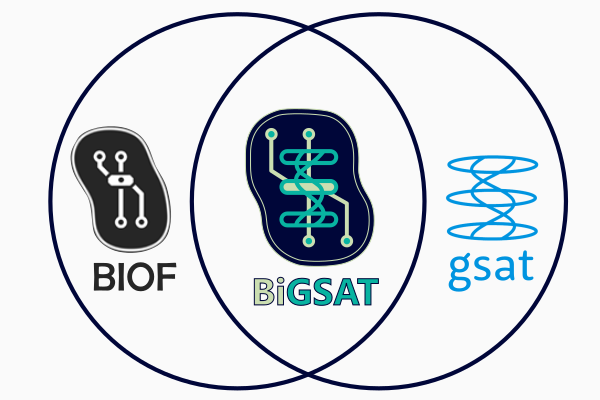
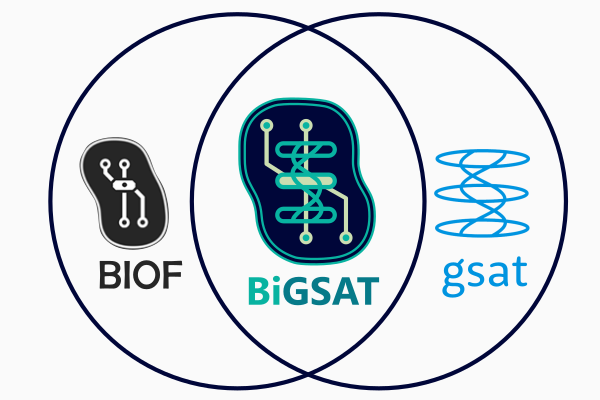
update images, css, some formatting

diff --git a/conference/index.html b/conference/index.html
@@ -56,18 +56,18 @@
     <h1>
       BiGSAT 2026 Keynote
     </h1>
-    
-    <h2>
+
+    <img src="assets/speakers/gillis.png" style="width:40%">
+
+    <h3>
       Dr. Jesse Gillis, PhD<br>
       Associate Professor of Integrative Physiology<br>
       University of Toronto
-    </h2>
-  
-    <img src="assets/slides/keynote.png" style="width:70%">
-  
-    <h3>
-      Dr. Gillis is an expert in integrated neurophysiology at the Donnelly Centre in the University of Toronto. His <a href="https://thedonnellycentre.utoronto.ca/faculty/jesse-gillis" target="_blank">lab</a> focuses on characterizing the flow of information from cellular gene networks to whole organism phenotypes across species using functional genomics data, focused primarily on the brain.
     </h3>
+  
+    <p>
+      Dr. Gillis is an expert in integrated neurophysiology at the Donnelly Centre in the University of Toronto. His <a href="https://thedonnellycentre.utoronto.ca/faculty/jesse-gillis" target="_blank">lab</a> focuses on characterizing the flow of information from cellular gene networks to whole organism phenotypes across species using functional genomics data, focused primarily on the brain.
+    </p>
   </div>
 
   <div id="Faculty Talks" class="tabcontent">
@@ -75,6 +75,8 @@
       Faculty Talks
     </h1>
   
+    <img src="assets/speakers/speakers_temp.png" style="width:100%">
+
     <h2>Coming soon!</h2>
   </div>
 

diff --git a/about/bigsat/index.html b/about/bigsat/index.html
@@ -45,21 +45,21 @@
     What is BiGSAT?
   </h1>
   
-  <h2>
+  <h4>
     First launched in 2011, BiGSAT began as B.I.G., a student-organized annual event that brought together hundreds of trainees from the University of British Columbia's Graduate Programs in Bioinformatics (BIOF), Interdisciplinary Oncology (IOP), and Genome Science and Technology (GSAT). 
-  </h2>
+  </h4>
 
   <td class="flyer">
     <img src="assets/bigsatVenn.png">
   </td>
   
-  <h3>
+  <h4>
     Alongside academic and industry professionals, participants presented their research through seminars and poster sessions. Over the years, the event has showcased a wide range of topics, spanning model systems, post-transcriptional and post-translational regulation, and their applications in clinical settings.
-  </h3>
+  </h4>
 
-  <p>
+  <h4>
     Starting 2026, B.I.G. has evolved into BiGSAT - focusing on research presented exclusively from the BIOF and GSAT programs. BiGSAT 2026 will have a reduced focus on cancer and an increased emphasis on computational methods and general genetics, including non-human applications. Details about the previous B.I.G. events can be found <a href="https://bigsat-oc.github.io/bigsite-archive/" target="_blank">here</a>.
-  </p>
+  </h4>
 
 
 </body>

diff --git a/index.html b/index.html
@@ -91,6 +91,10 @@
       <img src="assets/slides/savethedate.png" style="width:100%">
     </div>
 
+    <div class="mySlides fade">
+      <img src="assets/slides/speakers_announcement.png" style="width:100%">
+    </div>
+
   </div>
   
   <br>
@@ -124,13 +128,13 @@
   }
   </script>
 
-  <h2>
+  <h4>
     Students from the <a href="https://www.bioinformatics.ubc.ca/" target="_blank">Bioinformatics (BIOF)</a> and <a href="https://www.gsat.ubc.ca/" target="_blank">Genome Science and Technology (GSAT)</a> graduate programs at the University of British Columbia are pleased to present their 16th Annual Research Day on Thursday, April 16, 2026, at the Life Science Insitute. Over 150 graduate students from both programs will come together to present their research and attend seminars led by invited academic and industry professionals.
-  </h2>
+  </h4>
 
-  <h1>
+  <h2>
     Our Sponsors
-  </h1>
+  </h2>
 
   <div class="sponsors">
     <div class="sponsor-row">

diff --git a/assets/main.css b/assets/main.css
@@ -44,11 +44,11 @@ a.current{color: #52739e;}
 a.current:hover{color: #e82945;}
 a:hover{color: #b2132e;}
 a:active{color: #e82945;}
-h1,h2,h3,h4{clear:left; color: #067a89; margin:1.5em 0em 1em 0em; font-family:'Lexend Deca',sans-serif;line-height: 1.8em;}
-h1{font-size:2.67em;}
+h1,h2,h3,h4{clear:left; color: #08b3a1; margin:1.5em 0em 1em 0em; font-family:'Lexend Deca',sans-serif;line-height: 1.8em;}
+h1{font-size:2.67em; color: #067a89}
 h2{font-size:2.00em;}
 h3{font-size:1.67em;}
-h4{font-size:1.33em;}
+h4{font-size:1.33em; color: #000639}
 p{list-style:none; margin:24px auto 24px auto; padding:0px; width:900px; text-align:left;}
 li a, p a {text-decoration:underline; text-decoration-color:#b8860b;}
 /*ul{list-style:none; margin:24px auto 24px auto; padding:0px; width:800px; text-align:left;}

diff --git a/schedule/index.html b/schedule/index.html
@@ -45,7 +45,7 @@
     BiGSAT 2026 Schedule
   </h1> -->
 
-  <img src="assets/schedule.png" style="width:100%">
+  <img src="assets/schedule.png" style="width:90%">
 
   <!-- <table>
     <tr>
@@ -88,7 +88,7 @@
   </table> -->
 
   <h2>LSI Floormap</h2>
-  <img src="assets/LSI.png" style="width:80%">
+  <img src="assets/LSI.png" style="width:70%">
 
 </body>
 
